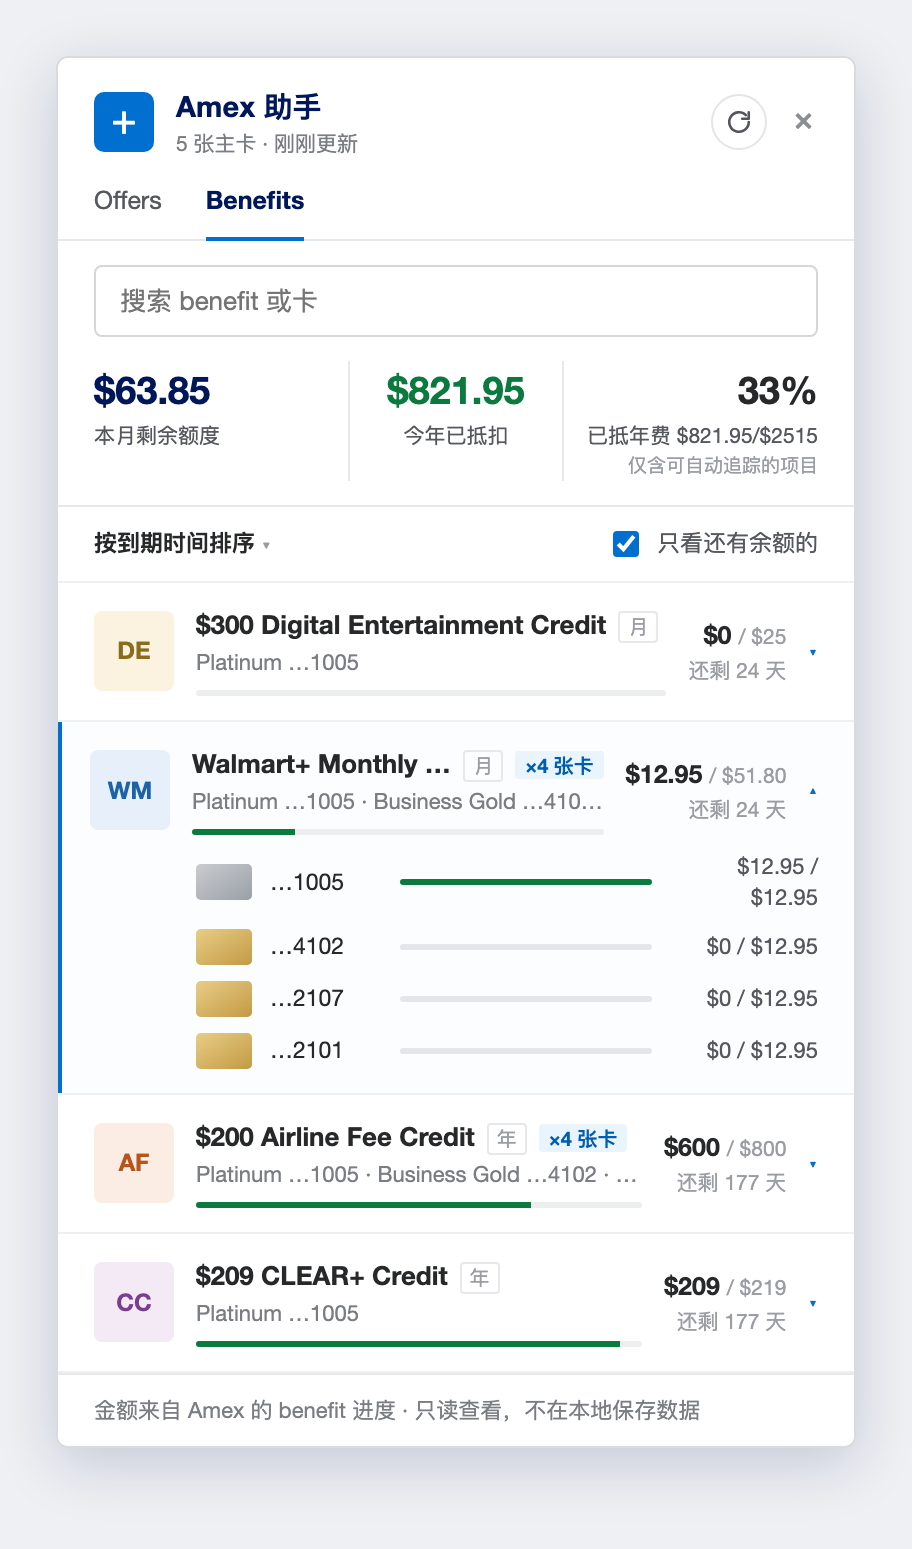
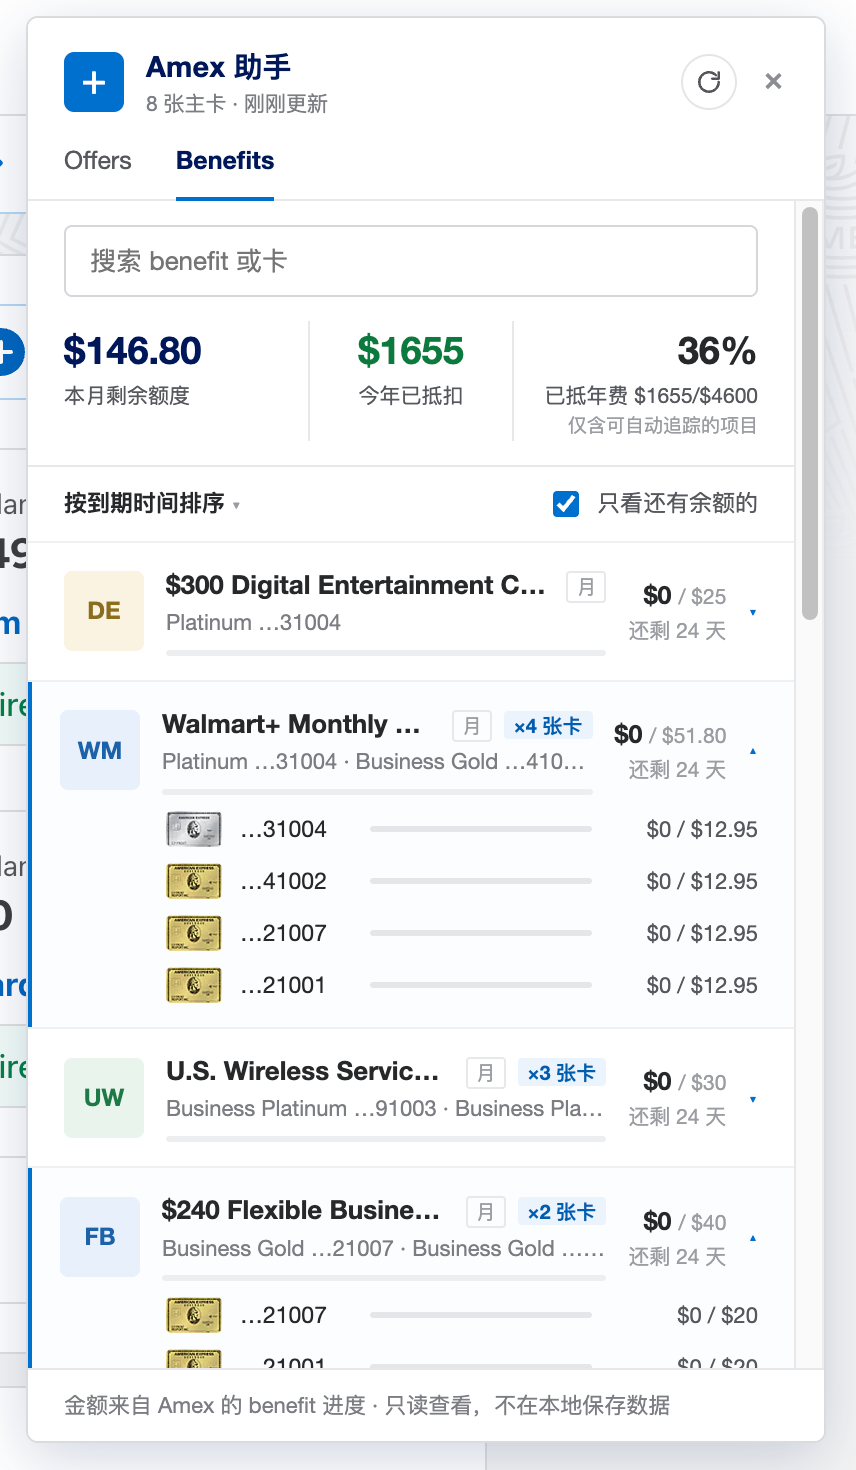
Update bilingual README screenshots

diff --git a/README.md b/README.md
@@ -1,15 +1,9 @@
 <div align="center">
 
-# 💳 Amex Assistant
+# Amex Assistant
 
-**Add one American Express Offer to all your cards — from a single panel.**
-
-Amex only lets you add an Offer to one card at a time, and adding it to one card
-often makes it vanish from the others. Amex Assistant reads every card's offers
-into one panel, fires your pick at all eligible cards together, then re-reads
-each card to tell you which ones **actually** got it. A second **Benefits** tab
-tracks every statement credit (dining, airline fee, CLEAR…) across all your
-cards — how much you've used, what's expiring, and what's left to activate.
+**把 Amex Offer 批量加到多张卡，并顺手看清每张卡的 Benefit 进度。**<br>
+**Add Amex Offers to multiple cards from one panel, and track Benefits across cards.**
 
 <br>
 
@@ -17,116 +11,209 @@ cards — how much you've used, what's expiring, and what's left to activate.
 [![Installs](https://img.shields.io/greasyfork/dt/585884?style=flat-square&labelColor=00175A&color=006FCF&label=installs)](https://greasyfork.org/en/scripts/585884-amex-assistant)
 [![Stars](https://img.shields.io/github/stars/olddonkey/amex-assistant?style=flat-square&labelColor=00175A&color=006FCF)](https://github.com/olddonkey/amex-assistant/stargazers)
 [![License: MIT](https://img.shields.io/badge/license-MIT-006FCF?style=flat-square&labelColor=00175A)](LICENSE)
-[![Telemetry: none](https://img.shields.io/badge/telemetry-none-006FCF?style=flat-square&labelColor=00175A)](#-privacy)
+[![Telemetry: none](https://img.shields.io/badge/telemetry-none-006FCF?style=flat-square&labelColor=00175A)](#privacy)
 [![@grant none](https://img.shields.io/badge/%40grant-none-006FCF?style=flat-square&labelColor=00175A)](src/amex-assistant.user.js)
 
 [![Install on Greasy Fork](https://img.shields.io/badge/Install%20on%20Greasy%20Fork-006FCF?style=for-the-badge&labelColor=00175A&logo=tampermonkey&logoColor=white)](https://greasyfork.org/en/scripts/585884-amex-assistant)
-
-<br>
-
-<table align="center">
-<tr valign="top">
-<td width="33%"><img src="docs/panel.png" alt="Offers list across cards"><br><sub><b>Offers</b> — pick one, add it to every eligible card</sub></td>
-<td width="33%"><img src="docs/result.png" alt="Per-card verification result"><br><sub><b>Verify</b> — re-reads each card, reports what actually landed</sub></td>
-<td width="33%"><img src="docs/benefits.png" alt="Benefits dashboard"><br><sub><b>Benefits</b> — every statement credit, tracked across cards</sub></td>
-</tr>
-</table>
 
 </div>
 
 ---
 
-## ✨ Features
+## 中文
 
-- **One offer → many cards.** Pick an offer once and queue it for every eligible
-  card, or expand it to choose specific cards.
-- **Real verification, not just "success".** After submitting, it waits for the
-  server to settle, re-reads each card's added-to-card list (double-checking
-  apparent misses once more), and reports what *actually* landed —
-  `confirmed / failed / suspected dedupe / unconfirmed / skipped`.
-- **Concurrent by design.** All cards for the *same* offer are submitted
-  together — once one card takes an offer Amex can make it ineligible on the
-  rest, so firing together is what lets more than one card win.
-- **Retries, but never through a throttle.** Transient failures (network
-  hiccups, 5xx) are re-sent quickly so a blip doesn't cost a card its window;
-  on a throttle/interception signal (HTTP 429/403) the run stops early instead
-  of pushing through — unsubmitted pairs are reported as `skipped` for a later
-  retry.
-- **Benefits dashboard.** A second tab reads every card's statement credits and
-  aggregates them across cards — used vs. remaining, days left, a multi-card
-  breakdown per credit, and the ones you haven't activated yet.
-- **Private by construction.** `@grant none` means the script is *technically
-  unable* to reach any third party — no backend, no telemetry, no IP collection.
-- **Zero build.** The userscript is the whole artifact; the network layer is
-  covered by a fetch-mock test suite (`node --test`) with no Amex account needed.
+Amex 官网通常只能一张卡一张卡地点 **Add to Card**。更麻烦的是，一个 offer
+加到某张卡后，其他卡上可能很快就看不到了。Amex Assistant 会先把每张卡的 Offers
+读进同一个面板；你选好卡以后，它会一起提交，最后重新读取 added list，告诉你哪些卡是真的加上了。
 
-> ⚠ These endpoints are undocumented; American Express may change them at any
-> time. See [`DISCLAIMER.md`](DISCLAIMER.md).
+**Benefits** tab 是只读的 statement credit 仪表盘：本月还剩多少、今年已经抵扣多少、哪些 benefit
+快到期，以及每张卡分别用了多少，都可以在一个面板里看完。
 
-## 🚀 Install
+### 截图
 
-1. Install a userscript manager — [Tampermonkey](https://www.tampermonkey.net/)
-   or [Violentmonkey](https://violentmonkey.github.io/).
-2. Install the script:
-   - **[Greasy Fork](https://greasyfork.org/en/scripts/585884-amex-assistant)**
-     — one-click, recommended, **or**
-   - **[direct from GitHub](https://raw.githubusercontent.com/olddonkey/amex-assistant/main/src/amex-assistant.user.js)**
-     — the raw `.user.js` (installed copies auto-update from this URL).
-3. Open `https://global.americanexpress.com/`, log in, and click the
-   **Amex 助手** button that appears on the page.
+<table>
+<tr valign="top">
+<td width="33%"><img src="docs/panel.png" alt="Offers list"><br><sub><b>Offers</b><br>跨卡搜索、筛选、选择要添加的 offer。</sub></td>
+<td width="33%"><img src="docs/running.png" alt="Running add requests"><br><sub><b>提交中</b><br>同一个 offer 的多张卡会一起提交。</sub></td>
+<td width="33%"><img src="docs/result.png" alt="Verified result"><br><sub><b>结果核对</b><br>重新读取 added list，区分确认已加、失败和疑似去重。</sub></td>
+</tr>
+<tr valign="top">
+<td width="66%" colspan="2"><img src="docs/benefits.png" alt="Benefits overview"><br><sub><b>Benefits</b><br>按到期时间看 statement credits 的剩余额度和已抵扣金额。</sub></td>
+<td width="33%"><img src="docs/benefits-detail.png" alt="Benefit per-card detail"><br><sub><b>逐卡明细</b><br>展开多卡 benefit，看每张卡自己的进度。</sub></td>
+</tr>
+</table>
 
-## 📋 Use
+### 功能
 
-1. Click **Amex 助手** — the panel reads every card and its offers.
-2. Tick an offer to queue it for **all** its eligible cards, or expand it to
-   choose specific cards. Already-added cards are disabled.
-3. Click **加到所选卡**. All cards for the *same* offer are submitted together;
-   different offers are paced a bit apart. When done, the panel re-reads each
-   card and reports `confirmed / failed / suspected dedupe / unconfirmed /
-   skipped`. If Amex throttles the session mid-run, the run stops early and the
-   panel suggests waiting a few minutes before retrying the unfinished pairs.
+- **一个 offer，一次选多张卡。** 勾选 offer 会默认选中所有可加的卡；展开后也可以只选部分卡。
+- **同一 offer 并发提交。** Amex 可能在第一张卡加上后让其他卡失去资格，所以同一个 offer
+  下的多张卡会一起提交。不同 offer 之间会稍微错开，避免太密集。
+- **提交后会复查。** 面板不会只相信接口返回的 success。它会等服务端更新后重新读取每张卡的
+  added list，再把结果分成确认已加、添加失败、疑似去重、无法确认和未提交。
+- **失败可以重试，但不会硬闯限流。** 网络错误和 5xx 会快速重试；遇到 429、403 或疑似拦截时，
+  本轮剩余请求会停止，稍后再重试未完成项。
+- **Benefits 只读查看。** 第二个 tab 会汇总每张主卡的 benefit / statement credit 进度：
+  本月剩余额度、今年已抵扣金额、年费抵扣比例，以及每个 benefit 的逐卡明细。
+- **没有后端，也没有 telemetry。** 脚本只在 Amex 页面里运行，只用当前浏览器登录态请求
+  `americanexpress.com`。`@grant none` 表示它没有 Tampermonkey 的跨站特权 API。
 
-`suspected dedupe` = Amex returned success, but the offer was **not** found on
-that card after re-reading — commonly because American Express allows the same
-offer on only one card. It's expected, not a tool bug (see
-[`DISCLAIMER.md`](DISCLAIMER.md)).
+> 这些是 Amex 网页内部接口，不是公开 API。Amex 随时可能改字段、改 endpoint、改行为或风控策略。
+> 详细风险见 [`DISCLAIMER.md`](DISCLAIMER.md)。
 
-## 🔒 Privacy
+### 安装
 
-Local-only, no backend, no telemetry, no IP collection, and fully auditable
-source. The header declares `@grant none`, so the script has no privileged APIs
-and can only talk to `americanexpress.com` on your own logged-in session.
+1. 安装 userscript 管理器，例如 [Tampermonkey](https://www.tampermonkey.net/)
+   或 [Violentmonkey](https://violentmonkey.github.io/)。
+2. 推荐从 [Greasy Fork](https://greasyfork.org/en/scripts/585884-amex-assistant)
+   安装；也可以直接安装
+   [GitHub raw 脚本](https://raw.githubusercontent.com/olddonkey/amex-assistant/main/src/amex-assistant.user.js)。
+3. 打开 `https://global.americanexpress.com/` 并登录，页面右侧会出现 **Amex 助手** 按钮。
 
-## 🛠 Development
+### 使用
 
-No build step. Tests and lint run on Node — no American Express account needed;
-the network layer is exercised against a fetch mock in `test/`.
+1. 点击 **Amex 助手**，面板会读取所有卡的 Offers。
+2. 在 **Offers** tab 里搜索或筛选 offer。勾选一行会选中所有可加的卡；展开后可以只选部分卡。
+3. 点击 **加到所选卡** 并确认。提交完成后，面板会自动复查每张卡。
+4. **疑似去重** 的意思是：Amex 接口说添加成功，但复查 added list 时这张卡上没有看到该 offer。
+   这通常是 Amex 对同一个 offer 做了按人去重，不一定是脚本 bug。
+5. 切到 **Benefits** tab 可以只读查看 statement credits；这里不会执行 enroll，也不会改动账户。
+
+<a id="privacy"></a>
+
+### 隐私
+
+Amex Assistant 没有服务器，不收集 IP，不上传数据，也不读取 cookie 内容。所有请求都发生在
+`global.americanexpress.com` 页面上下文里，使用浏览器已经登录的 Amex session。
+
+你可以直接检查 [`src/amex-assistant.user.js`](src/amex-assistant.user.js)：脚本头部是
+`@grant none`，没有 `GM.xmlHttpRequest`、没有 `@connect`，也没有第三方 endpoint。
+
+### 开发
+
+这个项目没有 build step；`src/amex-assistant.user.js` 就是可安装的 userscript。
+测试用本地 mock，不需要 Amex 登录态。
 
 ```sh
 npm install
-npm test        # node --test against fixtures + mock fetch
-npm run lint    # ESLint (Google-style conventions via @stylistic)
+npm test
+npm run lint
 ```
 
-### Before trusting a real run
+真实账户第一次使用前，建议按 [`docs/FINDINGS.md`](docs/FINDINGS.md) 里的 DevTools checklist
+确认当前 Amex 接口还没有变化，然后先选一个 offer、一张卡做小范围 smoke test。
 
-The internal API is undocumented, so confirm it against your own live session
-once (the one step that needs your login): follow the DevTools checklist in
-[`docs/FINDINGS.md`](docs/FINDINGS.md) §4, then do a first real submit by
-selecting a single offer on one card and confirm it shows as `confirmed`.
+### 文档
 
-## 📚 Docs
-
-| Doc | What it covers |
+| Doc | 内容 |
 | --- | --- |
-| [`docs/FINDINGS.md`](docs/FINDINGS.md) | The internal Amex offers API this tool uses. |
-| [`docs/PLAN.md`](docs/PLAN.md) | Design, milestones, reference skeleton. |
-| [`docs/IMPLEMENTATION.md`](docs/IMPLEMENTATION.md) | Agent handoff plan. |
+| [`docs/FINDINGS.md`](docs/FINDINGS.md) | 当前整理出的 Amex 内部 Offers API。 |
+| [`docs/PLAN.md`](docs/PLAN.md) | 设计思路、里程碑和行为约束。 |
+| [`docs/IMPLEMENTATION.md`](docs/IMPLEMENTATION.md) | 给 coding agent 的实现计划和验收点。 |
 
-## ⚖ Disclaimer
+### 免责声明
 
-Not affiliated with American Express. Automating your own account may be a gray
-area of the Amex Terms of Service; use at your own risk. This tool does not, and
-cannot, guarantee that an offer will be added to more than one card. MIT
-licensed; written from scratch. See [`DISCLAIMER.md`](DISCLAIMER.md) and
-[`LICENSE`](LICENSE).
+本项目与 American Express 无关联。自动化操作自己的账户可能违反或处在 Amex 服务条款的灰色地带；
+请自行承担风险。本工具不能保证同一个 offer 一定能加到多张卡。详见
+[`DISCLAIMER.md`](DISCLAIMER.md) 和 [`LICENSE`](LICENSE)。
+
+---
+
+## English
+
+Amex normally makes you click **Add to Card** one card at a time. Worse, once an
+offer is added to one card, it may disappear from the rest. Amex Assistant reads
+every card's Offers into one panel, submits the cards you choose together, then
+re-reads the added list so you can see what actually landed.
+
+The **Benefits** tab is a read-only statement credit dashboard. It aggregates
+credits across your primary cards so you can see what is left this month, what
+you have used this year, what expires soon, and how each card is doing.
+
+### Features
+
+- **One offer, many cards.** Select an offer once to queue every eligible card,
+  or expand the row and choose specific cards.
+- **Concurrent where it matters.** Cards for the same offer are submitted
+  together, because Amex may make the offer unavailable on other cards once one
+  card gets it. Different offers are paced apart.
+- **Verified results, not just success responses.** After submitting, the panel
+  waits for the server to settle and re-reads each card's added list. Results
+  are grouped as confirmed, failed, suspected dedupe, unconfirmed, or skipped.
+- **Retry without pushing through throttles.** Network errors and 5xx responses
+  get quick retries. If the session hits 429, 403, or an interception-looking
+  response, the run stops instead of hammering the account.
+- **Read-only Benefits dashboard.** The second tab reads benefit / statement
+  credit progress across primary cards: remaining balance, redeemed value,
+  annual-fee payback, and per-card breakdowns.
+- **No backend, no telemetry.** The script runs only on Amex pages and uses your
+  logged-in browser session to talk to `americanexpress.com`. `@grant none`
+  means it has no Tampermonkey cross-site privileged APIs.
+
+> These are undocumented Amex web endpoints, not public APIs. Amex can change
+> fields, endpoints, behavior, or throttling at any time. See
+> [`DISCLAIMER.md`](DISCLAIMER.md).
+
+### Install
+
+1. Install a userscript manager, such as
+   [Tampermonkey](https://www.tampermonkey.net/) or
+   [Violentmonkey](https://violentmonkey.github.io/).
+2. Install Amex Assistant from
+   [Greasy Fork](https://greasyfork.org/en/scripts/585884-amex-assistant), or
+   install the
+   [raw GitHub userscript](https://raw.githubusercontent.com/olddonkey/amex-assistant/main/src/amex-assistant.user.js).
+3. Open `https://global.americanexpress.com/`, sign in, and click the
+   **Amex 助手** button on the page.
+
+### Use
+
+1. Open **Amex 助手**. The panel reads Offers from every card.
+2. In the **Offers** tab, search or filter offers. Selecting a row queues all
+   eligible cards; expanding the row lets you choose specific cards.
+3. Click **加到所选卡** and confirm. The panel submits the selected cards, then
+   re-reads each card to verify the result.
+4. **Suspected dedupe** means Amex reported success, but the offer did not show
+   up on that card after re-reading the added list. This is commonly Amex
+   limiting the same offer to one card, not necessarily a tool bug.
+5. Switch to **Benefits** for read-only statement credit tracking. It does not
+   enroll benefits or change your account.
+
+### Privacy
+
+Amex Assistant has no server, no telemetry, no IP collection, and no cookie
+reading. Requests happen in the `global.americanexpress.com` page context using
+your already-signed-in Amex session.
+
+You can audit [`src/amex-assistant.user.js`](src/amex-assistant.user.js)
+directly: the header uses `@grant none`, with no `GM.xmlHttpRequest`, no
+`@connect`, and no third-party endpoints.
+
+### Development
+
+There is no build step. `src/amex-assistant.user.js` is the installable
+userscript. Tests use local mocks and do not need an Amex login.
+
+```sh
+npm install
+npm test
+npm run lint
+```
+
+Before trusting a real run, use the DevTools checklist in
+[`docs/FINDINGS.md`](docs/FINDINGS.md) to confirm Amex has not changed the
+internal endpoints, then do a small smoke test with one offer on one card.
+
+### Docs
+
+| Doc | Contents |
+| --- | --- |
+| [`docs/FINDINGS.md`](docs/FINDINGS.md) | Current notes on the internal Amex Offers API. |
+| [`docs/PLAN.md`](docs/PLAN.md) | Design, milestones, and behavior constraints. |
+| [`docs/IMPLEMENTATION.md`](docs/IMPLEMENTATION.md) | Implementation plan and validation notes for coding agents. |
+
+### Disclaimer
+
+This project is not affiliated with American Express. Automating your own
+account may violate or sit in a gray area of the Amex Terms of Service; use it
+at your own risk. The tool cannot guarantee that an offer will be added to more
+than one card. See [`DISCLAIMER.md`](DISCLAIMER.md) and [`LICENSE`](LICENSE).
